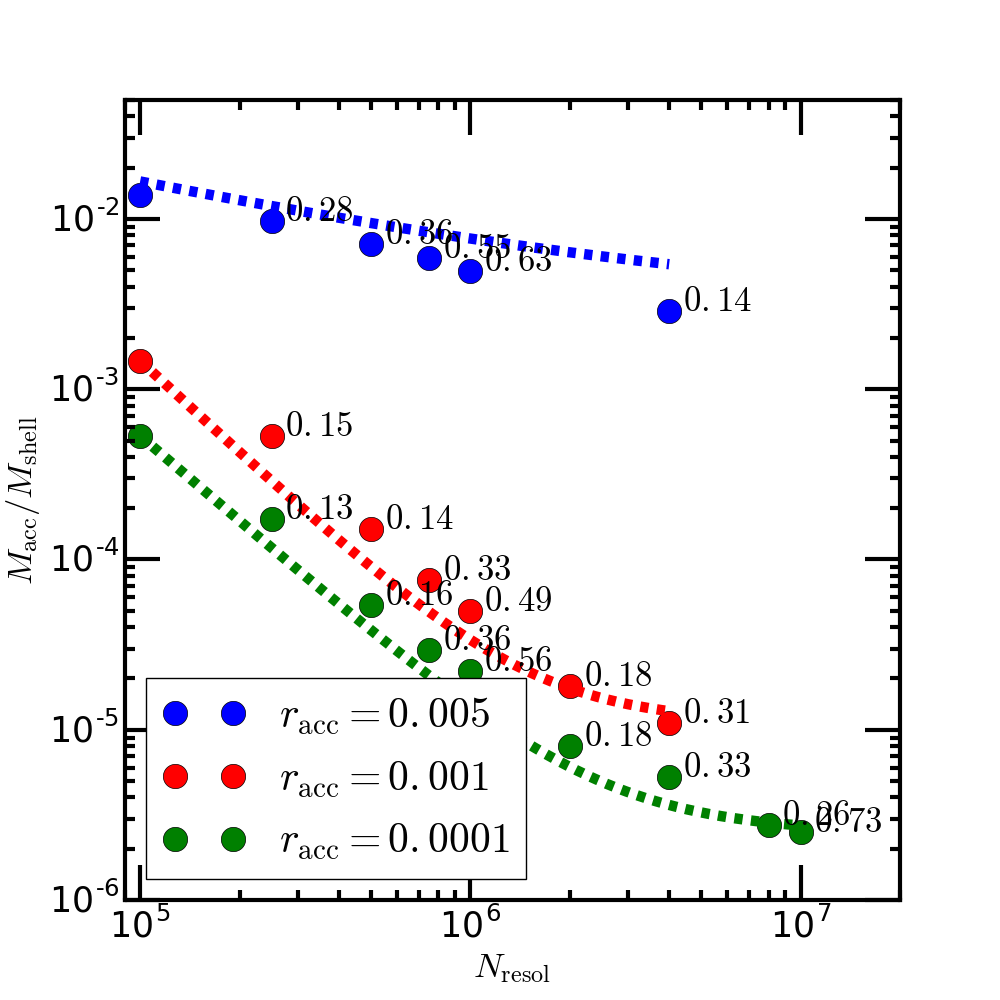
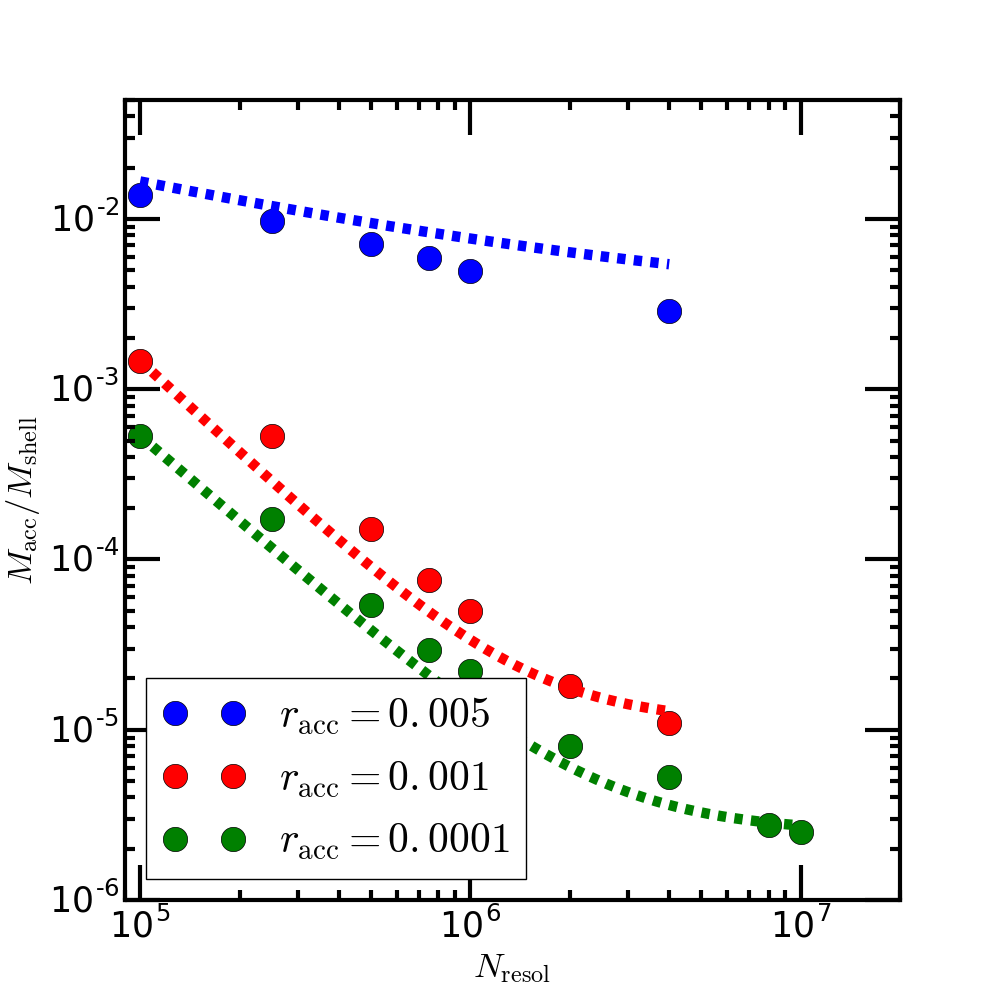
removed annotations that were crowding the plot

diff --git a/1-SanityCheck/Accretion/acc_mass_vs_resol.py b/1-SanityCheck/Accretion/acc_mass_vs_resol.py
@@ -123,11 +123,11 @@ def trace_the_line(X,Y,col):
 	pl.loglog(x,y, col+'--')
 	#pl.loglog(x,y+Y[-1], col+'--')
 
-	for i in range(1,len(X)):
-		i1 = i - 1
-		annotation = ( (Y[i]/Y[i1]) ) / ( (X[i]/X[i1]) )
-		pl.annotate( '$ {:3.2f} $'.format(annotation), xy=(X[i],Y[i]), xytext=(10,0), textcoords='offset points')
-		print( '{:3.2f}'.format(annotation))
+	#for i in range(1,len(X)):
+	#	i1 = i - 1
+	#	annotation = ( (Y[i]/Y[i1]) ) / ( (X[i]/X[i1]) )
+	#	pl.annotate( '$ {:3.2f} $'.format(annotation), xy=(X[i],Y[i]), xytext=(10,0), textcoords='offset points')
+	#	print( '{:3.2f}'.format(annotation))
 
 
 prepare_figure()
